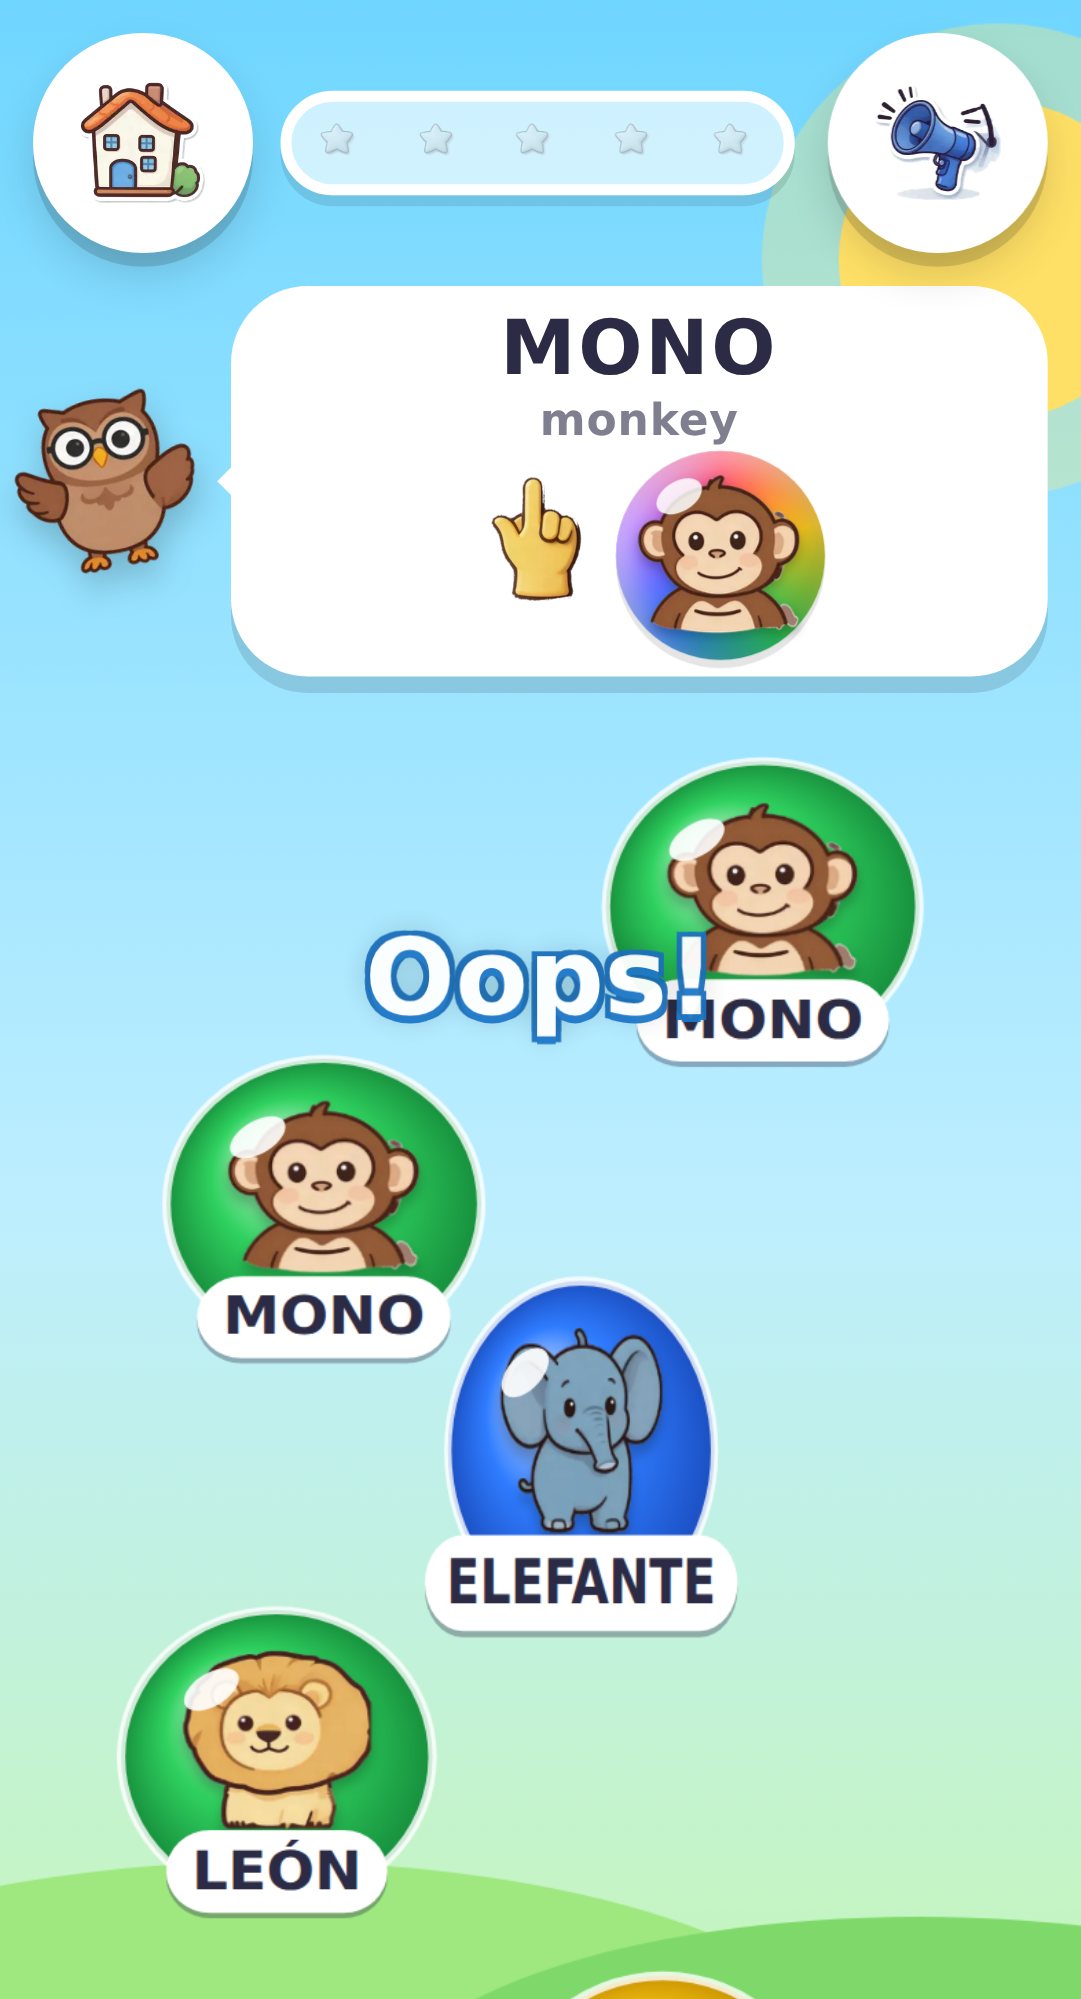
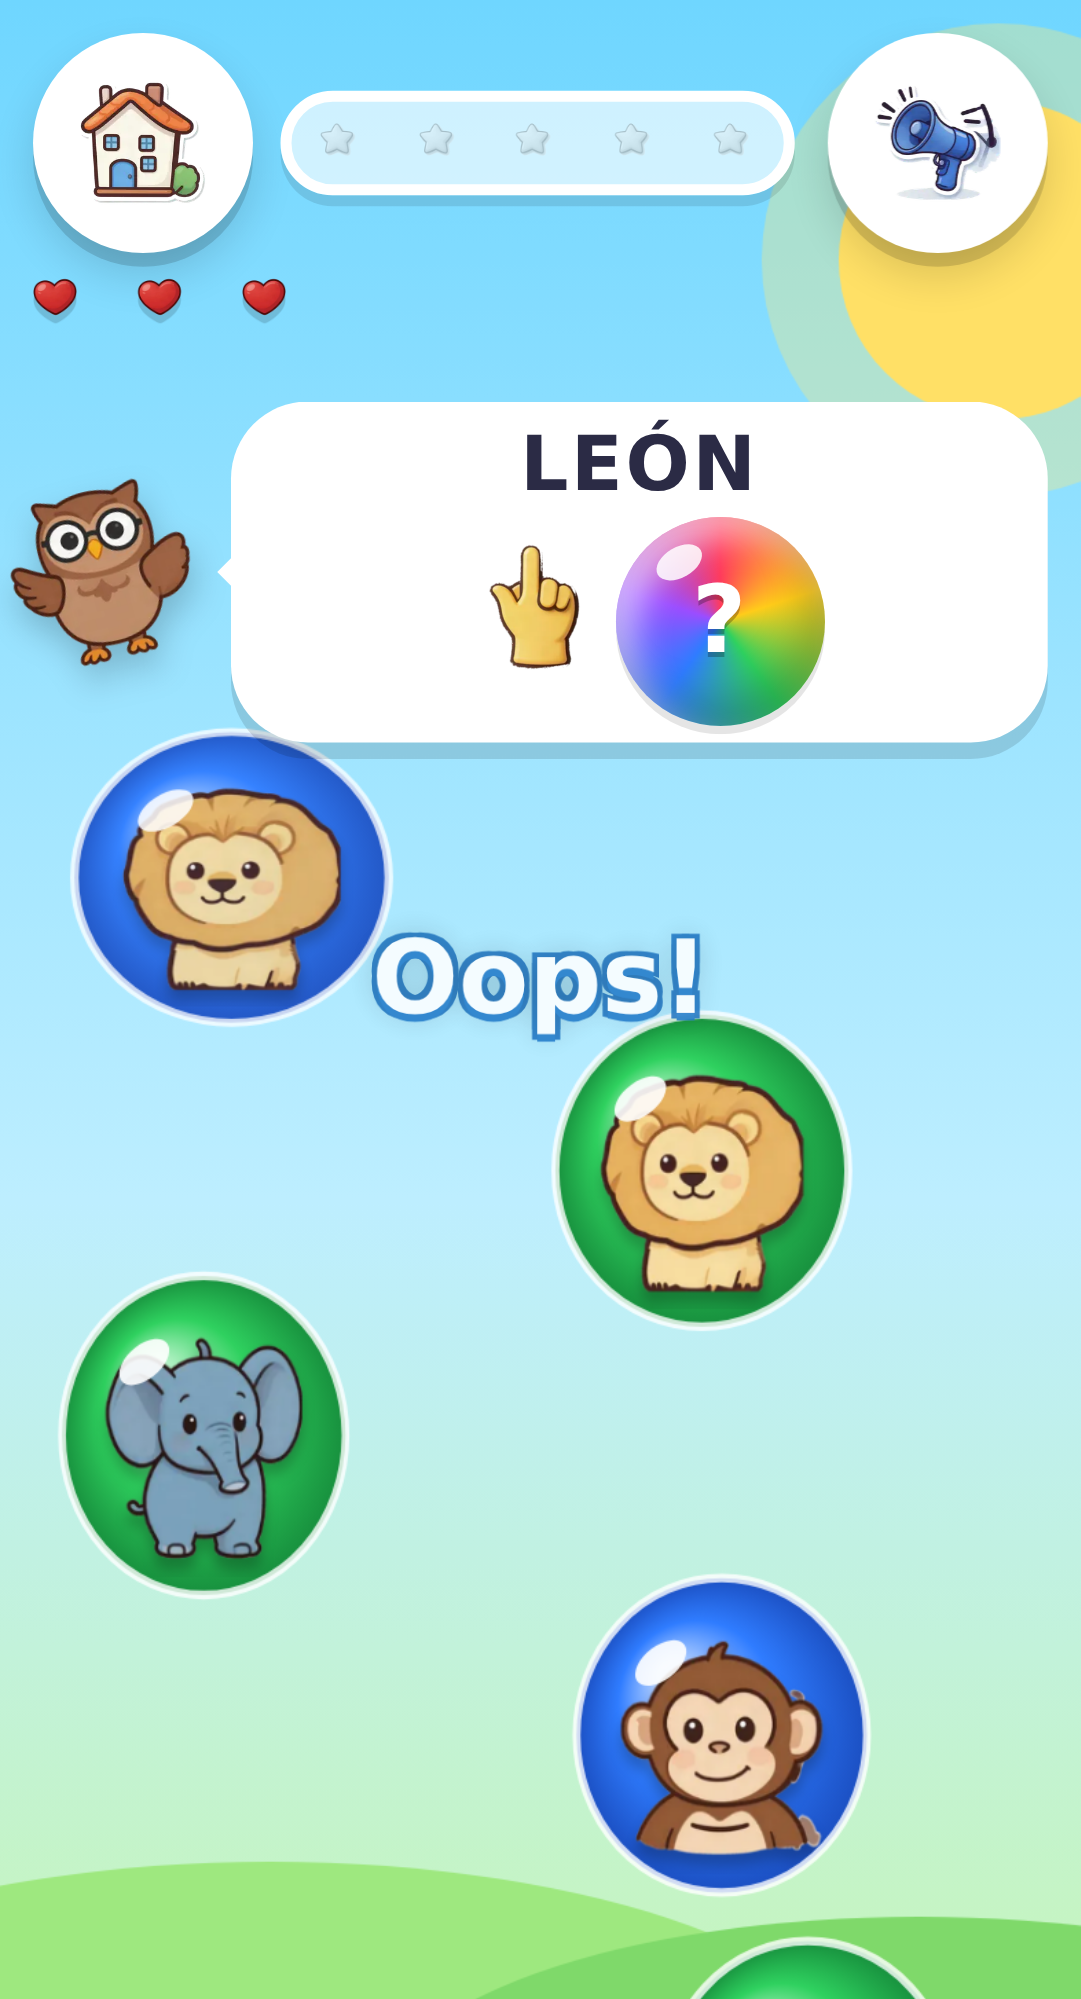
Release: three hearts on every level
- sw.js: cache bps-cache-v12 so installed phones pick up the new game.
- README: easy now has three hearts (a heart per lost question), the
  learning rule paragraph, test/lives.js and the decisions/ folder.
- decisions/2026-09-13-hearts-every-level.md: the debate record.
- test/lives.js: aim wrong taps away from any target or bomb within tap
  reach (bubbles fading under the owl's pill are not in state()), and
  accept a reveal that starts while no target is on screen yet.
- screenshots: easy rounds refreshed with the hearts row.

diff --git a/test/lives.js b/test/lives.js
@@ -35,15 +35,22 @@ const assert=(c,m)=>{ if(!c) throw new Error(`[${step}] ${m}`); };
       if(s.mode==='words'&&s.problem.kind==='pic') assert(b.word==null,'picture bubble must not wear its word'); }
   };
   // during a reveal the targets glow; the ones on screen may still be rising into view, so give them a moment
-  const glowSoon=async()=>waitFor(x=>x.reveal&&x.bubbles.some(b=>b.isTarget&&b.glow)?x:null,'a glowing target during the reveal',1500,40);
+  // (state() lists the bubbles on screen; a reveal that starts while every target is still under the pill has nothing to glow yet)
+  const glowSoon=async()=>{ let last=null; const r=await waitFor(x=>{ last=x; if(x.reveal) for(const b of x.bubbles) assert(b.isTarget||!b.glow,'only targets glow'); return x.reveal&&x.bubbles.some(b=>b.isTarget&&b.glow)?x:null; },'a glowing target during the reveal',1500,40).catch(()=>null);
+    if(r) return r; assert(last&&last.reveal&&!last.bubbles.some(b=>b.isTarget),'a glowing target during the reveal'); return last; };
   const assertHearts=async(n,label)=>{ const s=await state(); const h=await hud(); assert(s.hearts===n,`${label}: hearts ${s.hearts}, expected ${n}`);
     assert(h.hp===3&&h.row2==='flex',`${label}: three hearts visible (${JSON.stringify(h)})`); assert(h.lost===3-n,`${label}: ${h.lost} lost hearts drawn, expected ${3-n}`); return s; };
   // a bubble the child would tap by mistake: not a target, not a bomb, well inside the screen and not overlapping anything
-  const pickWrong=s=>{ const c=s.bubbles.filter(b=>!b.isTarget&&!b.bomb&&visible(b)); const lone=b=>!s.bubbles.some(o=>o.id!==b.id&&Math.hypot(o.x-b.x,o.y-b.y)<(o.r+b.r)*0.95);
-    return c.find(b=>lone(b)&&b.y>vp.height*0.3) || c.find(lone) || c[0]; };
+  // state() omits bubbles fading under the owl's pill, and the game still counts a tap on them (tap slop 12px), so a wrong
+  // bubble must sit well below the pill and have nothing else within tap reach; otherwise a hidden target can take the tap
+  let hudB=0;
+  const pickWrong=s=>{ const c=s.bubbles.filter(b=>!b.isTarget&&!b.bomb&&visible(b)); const near=(b,o)=>o.id!==b.id&&Math.hypot(o.x-b.x,o.y-b.y)<o.r+b.r+14;
+    const lone=b=>!s.bubbles.some(o=>near(b,o)), safe=b=>!s.bubbles.some(o=>near(b,o)&&(o.isTarget||o.bomb)), low=b=>b.y>hudB+b.r*1.3;
+    return c.find(b=>lone(b)&&low(b)) || c.find(b=>safe(b)&&low(b)) || c.find(safe) || null; };
   const pickRight=s=>{ const c=s.bubbles.filter(b=>b.isTarget&&!b.bomb&&visible(b)).sort((a,b)=>b.y-a.y); const lone=b=>!s.bubbles.some(o=>o.id!==b.id&&Math.hypot(o.x-b.x,o.y-b.y)<(o.r+b.r)*0.95);
     return c.find(lone) || c[0]; };
   async function tapWrong(){ // tap a wrong bubble until the game counted it (a strike, a lost heart or a reveal); re-read the state before every try
+    if(!hudB) hudB=await page.evaluate(()=>document.querySelector('#guide').getBoundingClientRect().bottom);
     for(let i=0;i<60;i++){ const s0=await state(); assert(!s0.reveal,'tapping while revealing'); const b=pickWrong(s0); if(!b){ await sleep(120); continue; }
       await tap(b.x,b.y);
       const s1=await waitFor(s=>(s.wrongTries!==s0.wrongTries||s.hearts!==s0.hearts||s.reveal||s.progress!==s0.progress)?s:null,'tap counted',700,40).catch(()=>null);
@@ -109,7 +116,7 @@ const assert=(c,m)=>{ if(!c) throw new Error(`[${step}] ${m}`); };
         const s0=await state(); const b=pickWrong(s0); assert(b,'a wrong bubble for the last strike'); await tap(b.x,b.y);
         let reveals=0, was=false, glowed=false, sawZero=false, fin=null; const t0=Date.now();
         while(Date.now()-t0<5000){ const x=await state(); if(x.reveal&&!was){ reveals++; if(reveals===1){ const h=await hud(); assert(h.lost===3,'all hearts drawn lost during the reveal: '+JSON.stringify(h)); txt=await say(); assert(txt===w0,'the last reveal shows the failed word: '+txt); } }
-          if(x.reveal&&x.bubbles.some(b=>b.isTarget&&b.glow)) glowed=true;
+          if(x.reveal){ assert(x.bubbles.every(b=>b.isTarget||!b.glow),'only targets glow'); if(x.bubbles.some(b=>b.isTarget&&b.glow)||!x.bubbles.some(b=>b.isTarget)) glowed=true; }
           was=x.reveal; if(x.hearts===0) sawZero=true; if(reveals>0&&!x.reveal&&x.hearts===3){ fin=x; break; } await sleep(50); }
         assert(reveals===1,'exactly one reveal on the last heart, got '+reveals); assert(sawZero,'hearts reached 0'); assert(glowed,'targets glow during the last reveal');
         assert(fin,'round restarted within 5 s'); assert(fin.progress===0&&fin.round===1&&fin.screen==='play'&&fin.wrongTries===0,'same round from zero: '+JSON.stringify({p:fin.progress,r:fin.round,sc:fin.screen,w:fin.wrongTries}));

diff --git a/sw.js b/sw.js
@@ -1,5 +1,5 @@
 /* Bubble Pop Safari - cache-first service worker */
-const CACHE = 'bps-cache-v11';
+const CACHE = 'bps-cache-v12';
 const FILES = ['./', './index.html', './manifest.webmanifest', './icon-192.png', './icon-512.png',
   './art/lion.webp', './art/monkey.webp', './art/elephant.webp', './art/panda.webp', './art/tiger.webp', './art/frog.webp',
   './art/koala.webp', './art/zebra.webp', './art/giraffe.webp', './art/hippo.webp', './art/owl.webp', './art/bomb.webp',

diff --git a/decisions/2026-09-13-hearts-every-level.md b/decisions/2026-09-13-hearts-every-level.md
@@ -1,0 +1,87 @@
+# Three hearts on every level: in easy, a heart is a lost question, not a slip
+
+Date: 2026-09-13   Focus: "Tu as 3 vies pour completer chaque niveau; si tu te trompes 3 fois c'est dead"   Debaters: child, teacher, parent, engineer, game designer
+
+## Question
+How should every level, easy included, be played with three lives (three mistakes and the level is lost) so that a
+4-to-8-year-old still has fun, still learns, and the game keeps its no-game-over, never-punish rules?
+
+## Proposals
+| # | Title | From | Size | Points | Supports / Objections |
+| - | ----- | ---- | ---- | ------ | --------------------- |
+| B | A heart is a lost question (merge of 3 "A heart is a lesson, not a slip", 5 "easy hearts per question", 10 "A lost question costs a life") | teacher, parent, engineer | M | 10 | 4 / 2 |
+| D | A calm card at zero hearts (merge of 2 "Owl's Oops Card", 6 "Try-again card", 8 "Owl's Retry Card") | child, parent, designer | M-L | 6 | 4 / 1 |
+| 9 | Hearts on every level (a heart per wrong tap, easy included) | engineer | S | 6 | 1 / 3 |
+| 7 | Hearts That Heal (a right pop in easy re-lights a heart) | designer | S | 5 | 1 / 1 |
+| 1 | Three Hearts for Everybody (heart back after three right in a row, easy stars by mistakes) | child | M (engineer: L) | 4 | 0 / 2 |
+| 4 | Three taps, then the lesson (soft death in easy keeps the bar, easy stars by mistakes) | teacher | M | 4 | 1 / 2, vetoed |
+
+Points: 3/2/1 for a first/second/third place on each of the five ballots, plus one for a round-1 "fight for". A cluster
+merge adopted by two or more seats carries its members' points.
+
+## Decision
+**Three hearts on every level; in easy, a heart is a lost question, not a slip** - Every round in every mode and
+difficulty now shows three hearts. In hard and expert nothing changes (a wrong tap, a bomb or a timeout costs a heart).
+In easy a heart goes out at the moment the owl has to show the answer: the third wrong tap on the same question in
+Math and Words, or the third wrong tap since the last right pop in Animals. Three hearts gone and the level is "dead":
+the owl shows the answer once, every bubble pops, the bar empties, the hearts refill and the same level starts again.
+
+Why it won: it topped the vote (10 points, first on the teacher's and the parent's ballots, second on the engineer's)
+and the judge follows the vote. The teacher's argument carried: tying the life to the reveal makes three lives three
+lessons ("a heart goes when the owl shows you the answer"), which is the only version where a lost heart teaches
+something and a 4-year-old is never killed by a slip of the finger on a moving bubble. The parent's line on permanence
+is adopted: hearts grey and refill within a level, but nothing is recorded (easy stars stay 3, the star row stays
+hidden), so the vetoed "visible loss on the home screen" never appears. The judge settles the one open point inside
+the cluster, Animals in easy, for the teacher and parent (third wrong tap since the last right pop) over the engineer
+and designer (per tap): one rule a non-reader can feel in every mode, "three wiggles, one heart", beats a faster loop.
+The engineer's ordering fix is a criterion: when the lost heart is the last one, loseRound owns the single reveal.
+
+Built as decided, with one reshaping during the build: a lost round in hard or expert Animals still restarts at once
+(no reveal), because test/hard.js asserts the immediate restart and the criteria required it to pass unmodified; in
+easy Animals a lost question and a lost round both show the goal with the matching bubbles glowing.
+
+Acceptance criteria (the builder is held to these):
+- In every mode (Animals, Math, Words) and every difficulty, a round starts with `state().hearts===3` and the HUD shows
+  three hearts (`#hearts .hp` x3, `#row2` displayed). Free play keeps no hearts and its per-question reveal, unchanged.
+- Hard and expert behave exactly as today; test/hard.js passes without modification.
+- Easy Math and Words: the first and second wrong tap on a question wiggle the bubble and toast "Oops!", cost no heart
+  and reveal nothing. The third wrong tap on the same question toasts "Look!", reveals the answer through
+  `revealAnswer()`/`answerHtml()` (answer shown, right bubbles glow, taps ignored ~2.4 s), costs one heart, and is
+  followed by a new question with the bar (progress) kept.
+- Easy Animals: the same rule where "the same question" is the current goal since the last right pop: a right pop
+  resets the strike count; the third wrong tap since the last right pop costs a heart and reveals: `answerHtml()` gains
+  an Animals branch (the goal text and the big goal bubble, as `renderGoal()` draws them) so the matching bubbles glow
+  for ~2.4 s with "Look!", then play continues with the bar kept.
+- When the heart lost is the last one, `loseRound()` owns the moment: exactly one reveal (2.6 s, the answer shown), then
+  every bubble pops, progress 0, hearts 3, "Try again!", the same round; never two overlapping `revealAnswer()` calls,
+  hearts never stick at 0, and nothing is recorded.
+- `starsFor()` still returns 3 in easy, the sticker book still hides the star row in easy, the save format is untouched.
+- An accidental Home tap still resumes with the same hearts.
+- Test: test/lives.js (new, all three modes, easy) checks: hearts 3 at start and visible; Math: two wrong taps leave
+  hearts 3 and no reveal, the third gives reveal + hearts 2 + a new question + progress kept; Animals: a right pop
+  resets the strike count (two wrong, one right, two wrong: still 3 hearts), the third wrong since the last right pop
+  costs a heart with glowing targets; Words: losing all three hearts gives a single reveal then hearts 3 / progress 0 /
+  same round / `best` unchanged; no answer on screen during play. test/smoke.js updated (hearts visible in easy; the
+  first wrong taps cost no progress); test/math.js and test/words.js keep passing (they may gain hearts assertions).
+
+## Rejected and deferred
+- **A calm card at zero hearts (2+6+8)** - deferred: four seats want it as the next slice (a still screen the child
+  can read, safari gets a reveal, auto-restart), but the engineer showed it breaks test/hard.js step 4 and the 6 s
+  restart waits and adds a screen state; it is a follow-up after this run settles what costs a life.
+- **Hearts on every level (per tap in easy)** - rejected: the child, the teacher and the parent all called it the
+  vetoed flame in disguise: three slips on moving bubbles empty a 4-year-old's whole bar, and not knowing one word at
+  4/5 costs the bar where today it costs nothing. Its fast loop is the designer's one good argument; hard/expert keep it.
+- **Hearts That Heal** - deferred: the teacher's objection (a random tapper heals every time and never meets an answer,
+  while the child who does not know one sum loses the bar) and the engineer's warning (death becomes today's rule in
+  new clothes) sink it as written; a heal on a right pop could still be added on top of this run's rule later.
+- **Three Hearts for Everybody** - rejected: the engineer sized it L (hearts + streak counter + flying heart + easy
+  stars) and the teacher showed the heart-back rewards easy pops, not correcting the missed thing.
+- **Three taps, then the lesson (soft death)** - vetoed by the parent: a single slip costs a life in easy and a death
+  writes 1 star into the sticker book for good. The judge agrees; the designer adds it is the worst ordering of loss.
+- **"Easy earns 1-3 stars by mistakes"** (clause in 1, 2, 3, 8) - vetoed by the parent: a recorded, visible "you
+  lost" on the home screen. Adopted; easy stars stay 3 in the winner.
+
+## For next time
+The calm card at zero hearts (the reveal on a still screen, hearts refilling one by one, tap or auto-restart) is the
+runner-up every seat but the engineer wants; it is an S-to-M slice now that the per-question rule exists, if its test
+budget (hard.js step 4, the 6 s waits) is planned for.

diff --git a/README.md b/README.md
@@ -14,17 +14,17 @@ Three games, picked with the three buttons under the title:
 
 Each mode keeps its own sticker book and stars.
 
-**The learning rule.** The game never shows the answer while the child is still trying: no hints, no translations, no name tags on the bubbles. The answer appears only after a failure, so a mistake becomes a lesson: when the hearts run out in hard or expert, or after three wrong tries on one question in easy and free play, the owl's bubble shows the full answer (the word with its picture and English meaning, or the equation with its result), the right bubbles glow for a couple of seconds, and then play goes on. This applies to every mode.
+**The learning rule.** The game never shows the answer while the child is still trying: no hints, no translations, no name tags on the bubbles. The answer appears only after a failure, so a mistake becomes a lesson: when a question is lost (three wrong tries on it, in easy and free play) or when the hearts run out, the owl's bubble shows the full answer (the word with its picture and English meaning, the equation with its result, or the animals goal with its bubble), the right bubbles glow for a couple of seconds, and then play goes on. This applies to every mode.
 
 Three difficulties, picked with the three buttons under Play:
 
 | | Mode | What changes |
 | --- | --- | --- |
-| 🐣 | Easy | The gentle original: no lives, no timers, wrong taps only wiggle. |
+| 🐣 | Easy | The gentle original, with three hearts: a wrong tap only wiggles, and a heart goes out only when a question is lost (the third wrong tap on the same question, or in Animals since the last right pop), at the very moment the owl shows the answer. No timers, no bombs, no stars recorded. |
 | 🔥 | Hard | Faster, smaller and more bubbles. Three hearts: a wrong tap or a bomb costs one. Bomb bubbles to avoid. From round 5 the owl asks for two things in turn (a green bubble, then a pink one). |
 | ⚡ | Expert | Faster still. A timer bar that refills a little with every good pop; when it runs out you lose a heart. Some bubbles change colour every second, so they become the target only for a moment. Ordered goals from round 3, three-step goals from round 7. |
 
-Losing all three hearts just restarts the round ("Oops, try again!"), there is never a game over. Every round in hard and expert earns one to three stars (no mistakes = three), shown on the sticker book, and each difficulty keeps its own progress while the stickers are shared.
+Every level, in every difficulty, is played with three lives. Losing all three hearts shows the answer once and just restarts the round ("Try again!"); there is never a game over, and nothing about hearts is kept. Every round in hard and expert earns one to three stars (no mistakes = three), shown on the sticker book, and each difficulty keeps its own progress while the stickers are shared.
 
 All the art is custom, generated with Higgsfield and cut out into small webp files in `art/`: the ten animals, the owl guide, the bomb, and every interface icon (play arrow, house, speaker, stars, hearts, pointing hand, trophy, chick, flame, lightning; the speech-bubble icon of the words game is drawn with a small script). No emoji are used except as a fallback while an image is still loading.
 
@@ -73,11 +73,13 @@ ngrok http 8080                  # terminal 2, copy the https URL
 | `.nojekyll` | Tells GitHub Pages to publish the files as they are. |
 | `serve.sh` | One‑command local server + ngrok tunnel + QR code. |
 | `test/smoke.js` | Playwright playthrough test (easy mode) used during development. |
+| `test/lives.js` | Playwright test for the three hearts in easy, all modes: slips cost nothing, the third wrong tap on a question costs a heart and reveals the answer, a right pop forgives earlier slips in Animals, losing the last heart reveals once and restarts the round, nothing given away during play. |
 | `test/hard.js` | Playwright test for hard and expert mode: hearts, bombs, restart, stars, ordered goals, timer, colour shifts. |
 | `test/math.js` | Playwright test for math mode: every round kind, answers checked, wrong taps, separate progress, hard mode with hearts and bombs. |
 | `test/words.js` | Playwright test for words mode: language picker, picture and color rounds, reverse rounds, no answer on screen while playing, the reveal after three wrong tries and after a lost round, separate progress, expert. |
 | `CLAUDE.md` | The purpose of the app and the rules every change must follow (the learning rule above, art, tests, deployment). |
 | `screenshots/` | Home screen, rounds in each mode, a celebration. |
+| `decisions/` | One record per feature debate: the proposals, the vote, the winner and why, the rejected ideas. |
 | `PROMPT.md` | The prompt this game was built from. |
 
 ## Rounds
@@ -100,6 +102,6 @@ python3 -m http.server 8080
 NODE_PATH=/path/to/node_modules node test/smoke.js http://127.0.0.1:8080 /tmp/out "Pixel 5"
 ```
 
-`test/smoke.js` needs Playwright. It plays two rounds, checks wrong taps are harmless, reloads to check the stickers and mute setting persisted, and fails on any page error or external request. `test/hard.js` (same arguments minus the device) switches to hard, loses hearts to a wrong tap and a bomb, checks the round restarts, finishes round 1 with one star, plays an ordered round, then plays expert round 7 with the timer and colour-shifting bubbles, and measures the frame rate on expert round 10.
+`test/smoke.js` needs Playwright. It plays two rounds, checks a wrong tap costs neither progress nor a heart, reloads to check the stickers and mute setting persisted, and fails on any page error or external request. `test/hard.js` (same arguments minus the device) switches to hard, loses hearts to a wrong tap and a bomb, checks the round restarts, finishes round 1 with one star, plays an ordered round, then plays expert round 7 with the timer and colour-shifting bubbles, and measures the frame rate on expert round 10. `test/lives.js` plays easy in all three modes and checks the hearts: slips, lost questions, the reveal, the restart.
 
 The test hook `window.__bps` exposes `state()`, `startGame()`, `startRound(n)`, `setDifficulty('easy'|'hard'|'expert')`, `setMode('safari'|'math'|'words')`, `setLanguage('fr'|'es'|'it'|'de')` and `resetProgress()`.
